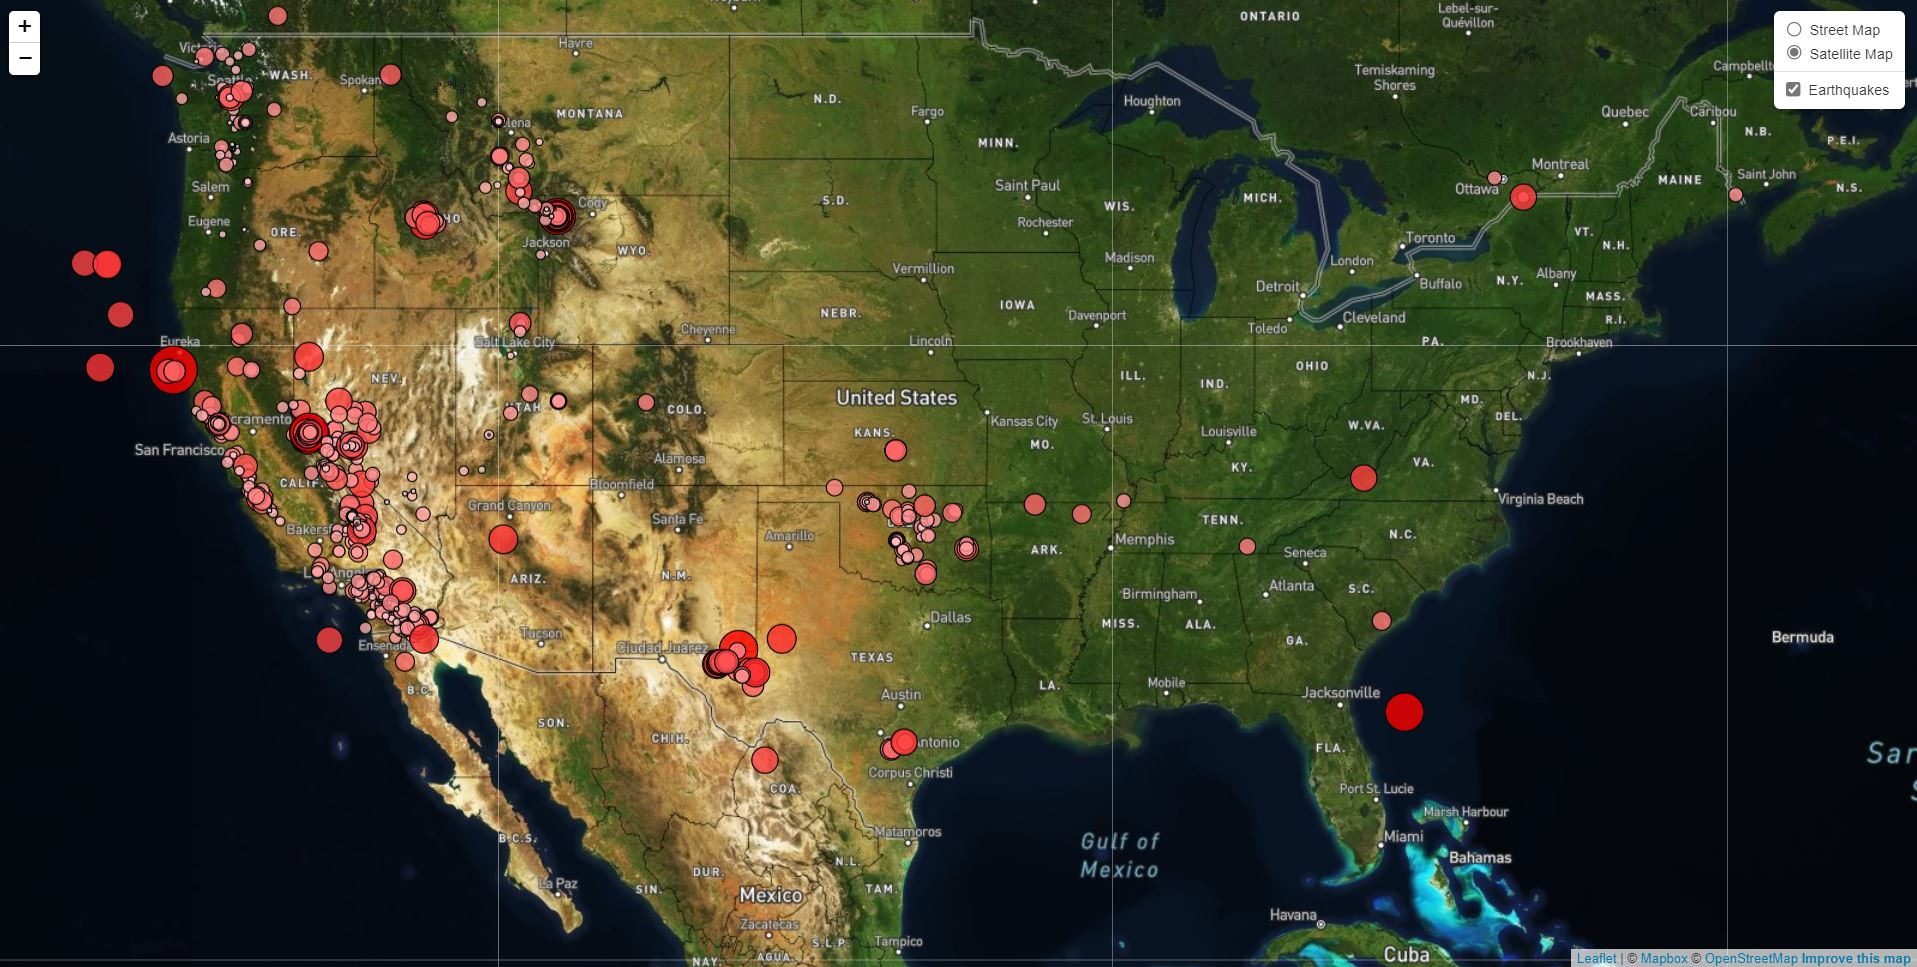
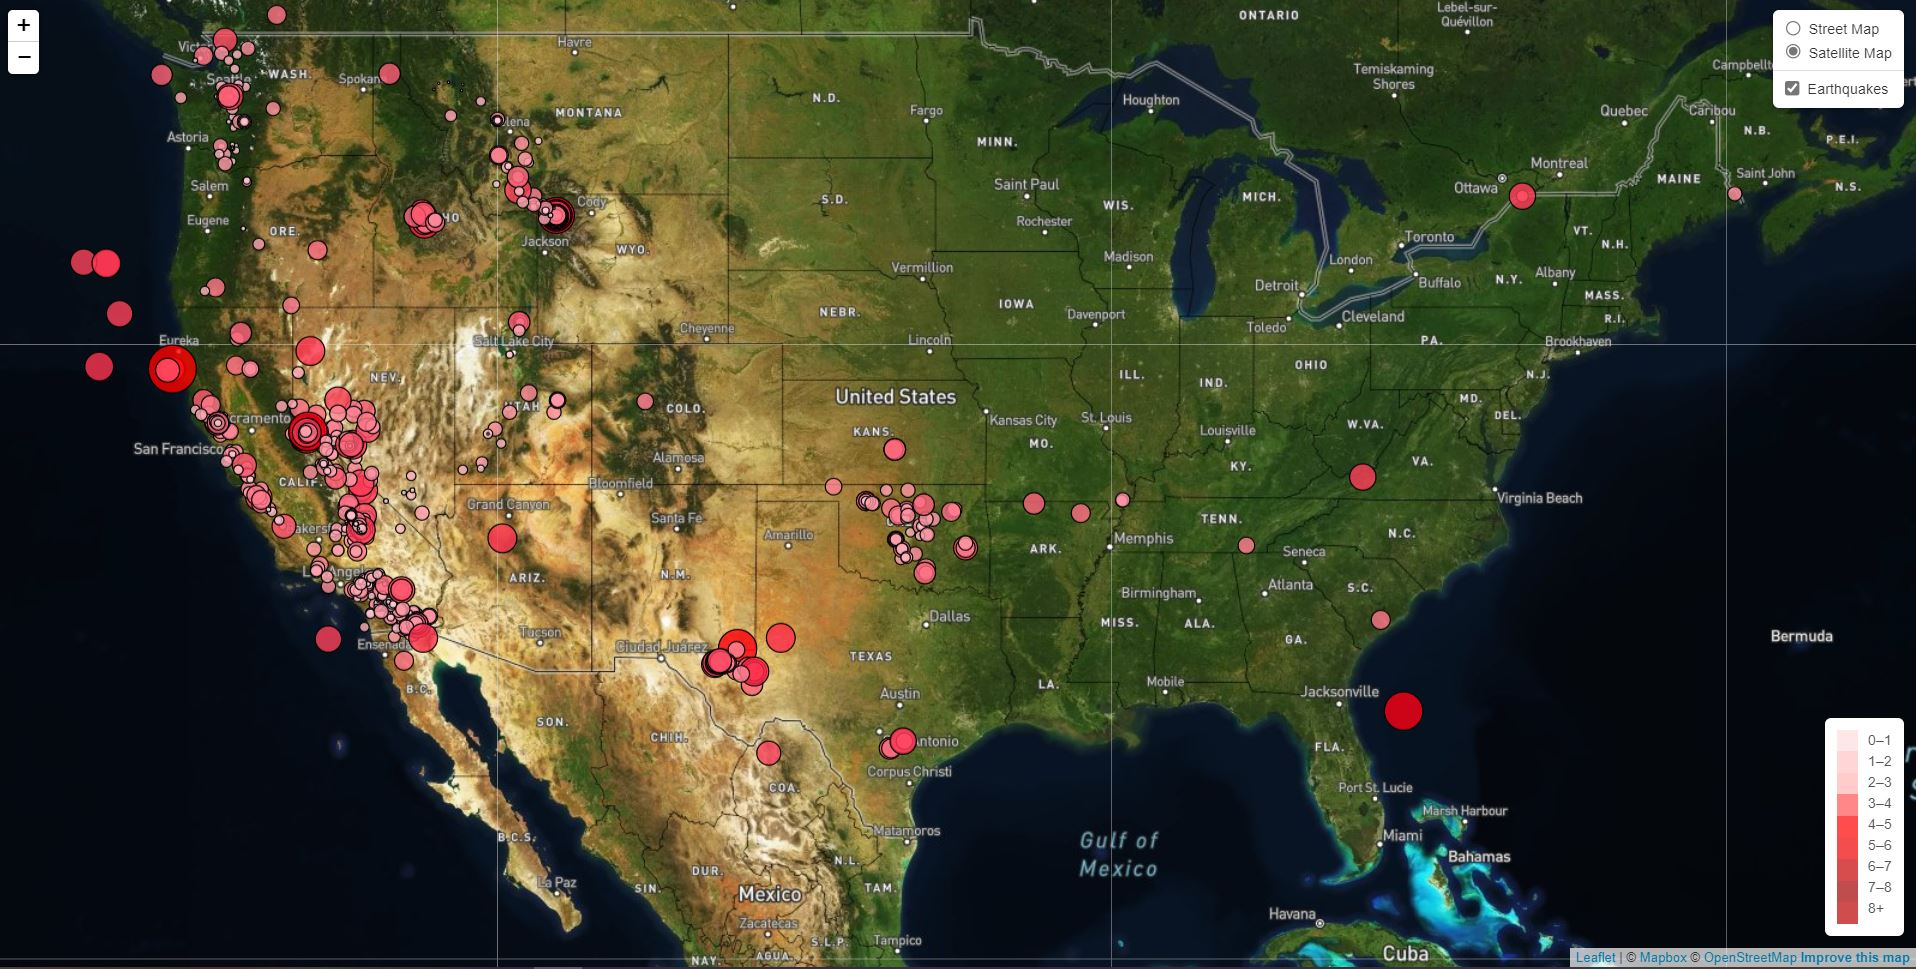
Adding Legend, update images

diff --git a/Leaflet-Step-1/static/js/logic.js b/Leaflet-Step-1/static/js/logic.js
@@ -22,14 +22,11 @@
     // Run the onEachFeature function once for each piece of data in the array
     var earthquakes = L.geoJSON(earthquakeData, {
       
-       
-
-
       pointToLayer: function (feature, latlng) {
         var color;
         var r = 255;
         var g = Math.floor(255-70*feature.properties.mag);
-        var b = Math.floor(255-70*feature.properties.mag);
+        var b = Math.floor(255-60*feature.properties.mag);
         color= "rgb("+r+" ,"+g+","+ b+")"
         
         var geojsonMarkerOptions = {
@@ -44,8 +41,6 @@
       },
 
       onEachFeature: onEachFeature
-        
-      
     });
     
     // Sending our earthquakes layer to the createMap function
@@ -107,19 +102,20 @@
 
     var div = L.DomUtil.create('div', 'info legend'),
         grades = [0, 1, 2, 3, 4, 5, 6, 7, 8],
+        colors = ['#FFDDDD', '#FFC3C3', '#FFB5B5', '#FF5353', '#FF0000', '#EE0000', '#C60000', '#A40000', '#BA0000'],
         labels = [];
 
     // loop through our density intervals and generate a label with a colored square for each interval
     for (var i = 0; i < grades.length; i++) {
         div.innerHTML +=
-            '<i style="background:' + (grades[i] + 1) + '"></i> ' +
+            '<i style="background:' + (colors[i]) + '"></i> ' +
             grades[i] + (grades[i + 1] ? '&ndash;' + grades[i + 1] + '<br>' : '+');
     }
 
     return div;
 };
 
-legend.addTo(map);
+legend.addTo(myMap);
 
   }
   
